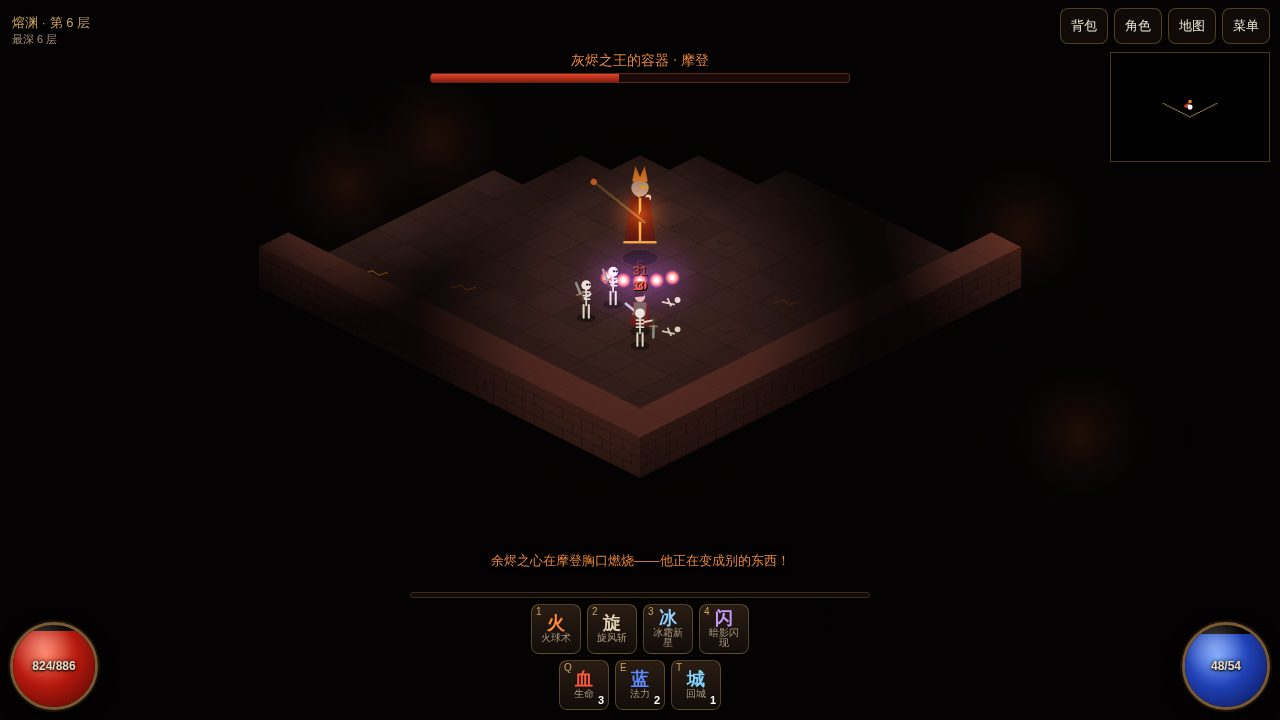
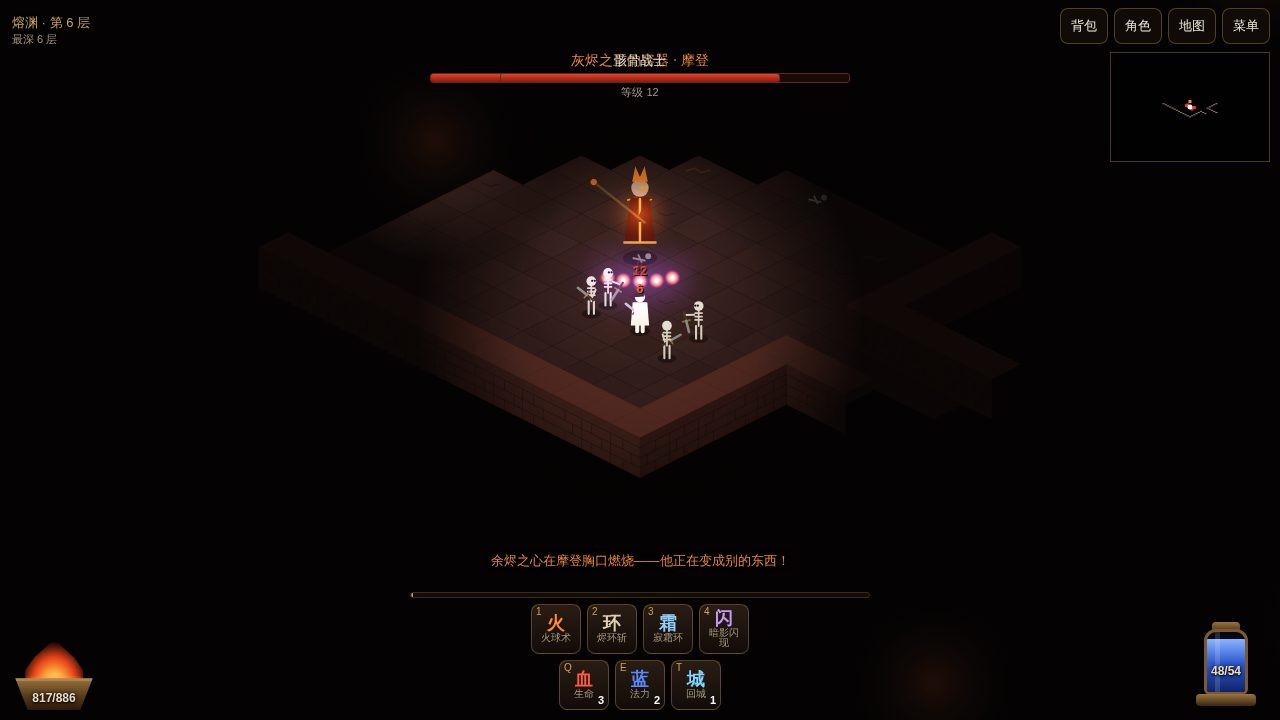
fix(emberfall): V0.1 去掉三处与暗黑系列过近的设计（莫格改监工造型、两个技能改名、红蓝球改火盆与油灯）
Claude-Session: https://claude.ai/code/session_01XabZgpsfqQTH4dmXweWHX2

diff --git a/games/emberfall/play/game.js b/games/emberfall/play/game.js
@@ -217,8 +217,8 @@ function poolFor(f) {
 }
 const SK = [
   { id: 'fireball', n: '火球术', k: '1', lvl: 1, mp: 5, cd: .4, g: '火', c: 'fire', d: '发射一枚火球，命中后爆炸，波及周围敌人。伤害受「魔力」和「法术伤害」加成。' },
-  { id: 'whirl', n: '旋风斩', k: '2', lvl: 3, mp: 9, cd: .8, g: '旋', c: 'whirl', d: '挥舞武器横扫周围所有敌人，造成 130% 武器伤害。' },
-  { id: 'nova', n: '冰霜新星', k: '3', lvl: 6, mp: 14, cd: 3, g: '冰', c: 'nova', d: '向四周释放寒冰，伤害并减速敌人 3 秒。' },
+  { id: 'whirl', n: '烬环斩', k: '2', lvl: 3, mp: 9, cd: .8, g: '环', c: 'whirl', d: '挥舞武器横扫周围所有敌人，造成 130% 武器伤害。' },
+  { id: 'nova', n: '寂霜环', k: '3', lvl: 6, mp: 14, cd: 3, g: '霜', c: 'nova', d: '向四周释放寒冰，伤害并减速敌人 3 秒。' },
   { id: 'blink', n: '暗影闪现', k: '4', lvl: 10, mp: 10, cd: 4, g: '闪', c: 'blink', d: '瞬间传送到目标位置（最远 7 格，需要视线）。' },
 ];
 
@@ -452,7 +452,7 @@ function genDungeon(f) {
       const bx = r.cx + .5, by = r.cy + .5;
       let bk = f === 3 ? 'mog' : f === 6 ? 'abbot' : pick(['mog', 'abbot']);
       const b = spawnMon(m, bk, bx, by, null);
-      if (f > 6) b.name = '深渊化身 · ' + (bk === 'mog' ? '屠戮者' : '焚誓者');
+      if (f > 6) b.name = '深渊化身 · ' + (bk === 'mog' ? '缚链者' : '焚誓者');
       const guard = bk === 'mog' ? 'zombie' : 'skel';
       for (let i = 0; i < 4; i++) { const s = spot(); if (s) spawnMon(m, f > 6 ? pick(pool) : guard, s.x, s.y, null); }
       m.props.push({ type: 'torch', x: r.x - .5, y: r.cy + .5, face: 'R', wall: true });
@@ -1013,7 +1013,7 @@ function bossDown(e) {
   const cx = r ? r.cx : Math.floor(e.x), cy = r ? r.cy : Math.floor(e.y);
   M.t[cy * M.w + cx] = T_DOWN; M.down = { x: cx + .5, y: cy + .5 };
   if (e.key === 'mog' && M.floor === 3) {
-    if (hero.q.q2 < 2) { hero.q.q2 = 2; log('你在莫格的屠宰间里找到了被锁住的托比——他还活着！托比逃回了镇上。', '#ffd24a'); }
+    if (hero.q.q2 < 2) { hero.q.q2 = 2; log('你在莫格背上的囚笼里找到了被锁住的托比——他还活着！托比逃回了镇上。', '#ffd24a'); }
   } else if (e.key === 'abbot' && M.floor === 6) {
     if (hero.q.q3 < 2) { hero.q.q3 = 2; setTimeout(epilogue, 1600); }
   } else log('深渊化身倒下了。更深处的裂隙打开了。', '#ffd24a');
@@ -1159,7 +1159,12 @@ function weaponShape(kind, len, col) {
   ctx.strokeStyle = '#4a3420'; ctx.lineWidth = 2.4 * Z; ctx.beginPath(); ctx.moveTo(0, 3 * Z); ctx.lineTo(0, -len * .35); ctx.stroke();
   if (kind === 'axe') { ctx.strokeStyle = '#5a3a20'; ctx.beginPath(); ctx.moveTo(0, -len * .35); ctx.lineTo(0, -len); ctx.stroke(); ctx.fillStyle = col || '#b8bcc4'; ctx.beginPath(); ctx.moveTo(0, -len * .95); ctx.quadraticCurveTo(9 * Z, -len * .85, 8 * Z, -len * .6); ctx.lineTo(0, -len * .7); ctx.fill(); return; }
   if (kind === 'mace') { ctx.strokeStyle = '#5a3a20'; ctx.beginPath(); ctx.moveTo(0, -len * .35); ctx.lineTo(0, -len * .85); ctx.stroke(); ctx.fillStyle = col || '#8a8f96'; ctx.beginPath(); ctx.arc(0, -len * .92, 4.2 * Z, 0, 6.3); ctx.fill(); return; }
-  if (kind === 'cleaver') { ctx.fillStyle = '#9aa0a8'; ctx.fillRect(-1 * Z, -len, 10 * Z, len * .65); ctx.fillStyle = '#6a1a10'; ctx.fillRect(4 * Z, -len * .5, 5 * Z, 4 * Z); return; }
+  if (kind === 'chain') { // 铁链连枷：一节节链环，末端一颗铁球
+    ctx.strokeStyle = '#8a8f96'; ctx.lineWidth = 1.4 * Z;
+    for (let i = 0; i < 6; i++) { ctx.beginPath(); ctx.ellipse(Math.sin(time * 4 + i) * i * .4 * Z, -len * (.18 + i * .12), 1.6 * Z, 2.6 * Z, 0, 0, 6.3); ctx.stroke(); }
+    ctx.fillStyle = '#5a5e64'; ctx.beginPath(); ctx.arc(Math.sin(time * 4 + 6) * 2.4 * Z, -len * .98, 4.4 * Z, 0, 6.3); ctx.fill();
+    ctx.strokeStyle = '#3a3e44'; ctx.lineWidth = 1.2 * Z; ctx.stroke(); return;
+  }
   // 剑类
   ctx.strokeStyle = '#8a6a3a'; ctx.lineWidth = 2 * Z; ctx.beginPath(); ctx.moveTo(-4 * Z, -len * .35); ctx.lineTo(4 * Z, -len * .35); ctx.stroke();
   ctx.strokeStyle = col || '#d8dce4'; ctx.lineWidth = (kind === 'gsword' ? 3.6 : kind === 'dagger' ? 2 : 2.8) * Z;
@@ -1197,22 +1202,31 @@ function drawMan(px, py, o) {
   };
   if (back) { drawWeaponArm(); }
   else drawShield();
+  // 背上的囚笼（莫格）：画在躯干后面
+  if (o.cage) {
+    ctx.fillStyle = W_('rgba(20,16,14,.85)'); ctx.fillRect(-11 * s, -50 * s, 22 * s, 24 * s);
+    ctx.strokeStyle = W_('#5a5048'); ctx.lineWidth = 1.8 * s; ctx.beginPath();
+    for (let i = 0; i <= 5; i++) { const x = -11 * s + i * 4.4 * s; ctx.moveTo(x, -50 * s); ctx.lineTo(x, -26 * s); }
+    ctx.moveTo(-12 * s, -50 * s); ctx.lineTo(12 * s, -50 * s); ctx.moveTo(-12 * s, -26 * s); ctx.lineTo(12 * s, -26 * s); ctx.stroke();
+  }
   // 躯干
   if (o.robe) {
     ctx.fillStyle = W_(o.body); ctx.beginPath(); ctx.moveTo(-6 * s + hy, -31 * s); ctx.lineTo(6 * s + hy, -31 * s); ctx.lineTo(10 * s, -1 * s); ctx.lineTo(-10 * s, -1 * s); ctx.closePath(); ctx.fill();
     if (o.trim) { ctx.strokeStyle = W_(o.trim); ctx.lineWidth = 1.6 * s; ctx.beginPath(); ctx.moveTo(-10 * s, -2 * s); ctx.lineTo(10 * s, -2 * s); ctx.moveTo(hy, -30 * s); ctx.lineTo(0, -2 * s); ctx.stroke(); }
   } else if (o.thin) {
     ctx.strokeStyle = W_(o.body); ctx.lineWidth = 2 * s; ctx.beginPath(); ctx.moveTo(hy, -32 * s); ctx.lineTo(0, -14 * s); for (let r = 0; r < 3; r++) { ctx.moveTo(-4 * s + hy, (-29 + r * 4) * s); ctx.lineTo(4 * s + hy, (-29 + r * 4) * s); } ctx.stroke();
-  } else if (o.fat) {
-    ctx.fillStyle = W_(o.body); ctx.beginPath(); ctx.ellipse(0, -20 * s, 12 * s, 13 * s, 0, 0, 6.3); ctx.fill();
-    ctx.fillStyle = W_(o.apron || '#5a4a3a'); ctx.fillRect(-8 * s, -22 * s, 16 * s, 16 * s);
-    ctx.fillStyle = 'rgba(120,10,5,.8)'; ctx.fillRect(-4 * s, -16 * s, 5 * s, 4 * s); ctx.fillRect(2 * s, -11 * s, 4 * s, 3 * s);
+  } else if (o.brute) {
+    // 宽肩的监工：倒梯形躯干、胸前斜缠铁链、铁项圈
+    ctx.fillStyle = W_(o.body); ctx.beginPath(); ctx.moveTo(-12 * s + hy, -33 * s); ctx.lineTo(12 * s + hy, -33 * s); ctx.lineTo(8 * s, -12 * s); ctx.lineTo(-8 * s, -12 * s); ctx.closePath(); ctx.fill();
+    ctx.strokeStyle = W_('#8a8f96'); ctx.lineWidth = 2.4 * s; ctx.setLineDash([2.2 * s, 1.4 * s]);
+    ctx.beginPath(); ctx.moveTo(-11 * s + hy, -32 * s); ctx.lineTo(8 * s, -14 * s); ctx.stroke(); ctx.setLineDash([]);
+    ctx.fillStyle = W_('#4a4e54'); ctx.fillRect(-5 * s + hy, -35 * s, 10 * s, 3 * s);
   } else {
     ctx.fillStyle = W_(o.body); ctx.beginPath(); ctx.moveTo(-7 * s + hy, -31 * s); ctx.lineTo(7 * s + hy, -31 * s); ctx.lineTo(6 * s, -13 * s); ctx.lineTo(-6 * s, -13 * s); ctx.closePath(); ctx.fill();
     if (o.belt) { ctx.fillStyle = W_(o.belt); ctx.fillRect(-6 * s, -16 * s, 12 * s, 2.4 * s); }
   }
   // 头
-  const hx = hy * 1.4, hyy = o.fat ? -36 * s : -37 * s;
+  const hx = hy * 1.4, hyy = o.brute ? -38 * s : -37 * s;
   ctx.fillStyle = W_(o.skin); ctx.beginPath(); ctx.arc(hx, hyy, (o.head || 5.6) * s, 0, 6.3); ctx.fill();
   if (o.skull && !back) { ctx.fillStyle = '#111'; ctx.beginPath(); ctx.arc(hx + 1 * s, hyy - .5 * s, 1.3 * s, 0, 6.3); ctx.arc(hx + 4 * s, hyy - .5 * s, 1.3 * s, 0, 6.3); ctx.fill(); }
   if (o.eyes && !back) { ctx.fillStyle = o.eyes; ctx.beginPath(); ctx.arc(hx + 1.5 * s, hyy - .5 * s, 1.1 * s, 0, 6.3); ctx.arc(hx + 4.2 * s, hyy - .5 * s, 1.1 * s, 0, 6.3); ctx.fill(); }
@@ -1253,7 +1267,7 @@ function lookOf(e) {
     case 'ghoul': return Object.assign(base, { body: '#8a8a7a', legs: '#4a4a3a', skin: '#a8a898', hunch: true, armsFwd: true, arm: '#a8a898', eyes: '#ff4020' });
     case 'cultist': return Object.assign(base, { robe: true, body: '#3a1e4e', trim: '#8a5ab8', skin: '#b89a8a', hood: '#2a1438', weapon: 'staff', wcol: '#c070ff', eyes: '#e090ff' });
     case 'knight': return Object.assign(base, { body: '#2c2c36', legs: '#1e1e26', skin: '#2c2c36', helm: '#3a3a46', eyes: '#ff3020', weapon: 'gsword', wcol: '#8a8a9a', wlen: 1.2, cape: '#5a0e0a', shield: '#2a2a33' });
-    case 'mog': return Object.assign(base, { fat: true, body: '#9a6a5a', legs: '#4a3028', skin: '#a87a6a', apron: '#6a5a48', weapon: 'cleaver', wlen: 1.2, head: 6.4, eyes: '#ff3010', aura: e.enraged ? 'rgba(255,40,20,.35)' : base.aura });
+    case 'mog': return Object.assign(base, { brute: true, cage: true, body: '#5a4638', legs: '#3a2a20', skin: '#8a6a5a', weapon: 'chain', wlen: 1.3, head: 5.4, eyes: '#ff3010', aura: e.enraged ? 'rgba(255,40,20,.35)' : base.aura });
     case 'abbot': return Object.assign(base, { robe: true, float: true, body: e.phase === 2 ? '#4a0e08' : '#6a1a14', trim: '#d8a040', skin: '#c8a08a', crown: e.phase === 2 ? '#ff8a2a' : '#d8a040', weapon: 'staff', wcol: '#ff7a2a', wlen: 1.3, eyes: e.phase === 2 ? '#ffb020' : null, aura: e.phase === 2 ? 'rgba(255,110,30,.45)' : 'rgba(255,120,40,.18)' });
   }
   return base;
@@ -1271,7 +1285,7 @@ function heroLook() {
 }
 function drawNpc(n) {
   const px = sx(n.x, n.y), py = sy(n.x, n.y);
-  const L = { priest: { robe: true, body: '#d8d0c0', trim: '#c9a35a', skin: '#d8b8a0', hood: '#e8e0d0', weapon: 'staff', wcol: '#ffe08a' }, smith: { body: '#5a3a24', legs: '#2a2018', skin: '#c89878', belt: '#1a120a', apron: '#3a2a1a', weapon: 'mace', hair: '#6a4a2a', s: 1.1 }, alch: { robe: true, body: '#2a4a3a', trim: '#8ad0a0', skin: '#e0b8a0', hair: '#8a2a1a' }, boy: { body: '#6a5a3a', legs: '#3a2a1a', skin: '#e0b898', hair: '#4a3020', s: .8 } }[n.look];
+  const L = { priest: { robe: true, body: '#d8d0c0', trim: '#c9a35a', skin: '#d8b8a0', hood: '#e8e0d0', weapon: 'staff', wcol: '#ffe08a' }, smith: { body: '#5a3a24', legs: '#2a2018', skin: '#c89878', belt: '#1a120a', weapon: 'mace', hair: '#6a4a2a', s: 1.1 }, alch: { robe: true, body: '#2a4a3a', trim: '#8ad0a0', skin: '#e0b8a0', hair: '#8a2a1a' }, boy: { body: '#6a5a3a', legs: '#3a2a1a', skin: '#e0b898', hair: '#4a3020', s: .8 } }[n.look];
   drawMan(px, py, Object.assign({ face: n.face, walk: 0, moving: false }, L));
   ctx.font = `bold ${Math.round(12 * Math.max(Z, .85))}px sans-serif`; ctx.textAlign = 'center';
   const ty = py - 52 * Z * (L.s || 1);
@@ -1736,18 +1750,18 @@ function talk(n) {
       [{ t: '我会阻止他。', main: true, fn: () => { q.q3 = 1; closePanel(); log('新任务：余烬之心——前往第 6 层封印大厅', '#ffd24a'); saveGame(); } }, bye]);
     if (q.q3 === 2) return dialog(n, ['你回来了……让我看看你。', '……孩子，你的眼睛里有火。', '灰烬之王没有死，他只是换了一个容器。封印大厅下面的裂隙还在呼唤他。去吧，在火焰吞没你之前，把深渊里的东西全部埋葬。这是修会最后的遗物，带上它。'],
       [{ t: '收下遗物', main: true, fn: () => { q.q3 = 3; hero.won = true; const it = genItem(Math.max(14, hero.lvl + 2), { rar: 3 }); hero.inv.length < 40 ? hero.inv.push(it) : dropItemAt(it, P.x, P.y); gainXp(1500); log(`获得传奇物品：${it.n}`, '#e8843a'); log('无尽深渊已开启：第 6 层之下还有更深的楼层', '#ffd24a'); Snd.play('legend'); closePanel(); saveGame(); } }]);
-    const lines = q.q3 === 1 ? '封印大厅在第 6 层。愿圣焰为你照亮道路。' : q.q2 === 1 ? '格伦的学徒还困在下面……莫格那头畜生，以前是修道院的屠夫。' : hero.won ? '深渊没有尽头，孩子。但每往下一层，你都让地面上的人多活一天。' : '伤口我已经为你治好了。小心脚下，孩子。';
+    const lines = q.q3 === 1 ? '封印大厅在第 6 层。愿圣焰为你照亮道路。' : q.q2 === 1 ? '格伦的学徒还困在下面……莫格那头畜生，以前是修道院地牢的狱卒。' : hero.won ? '深渊没有尽头，孩子。但每往下一层，你都让地面上的人多活一天。' : '伤口我已经为你治好了。小心脚下，孩子。';
     return dialog(n, [lines, '（伊莲为你恢复了全部生命与法力）'], [{ t: '关于烬原镇', fn: () => dialog(n, ['烬原镇建在三十年前那场大火的灰烬上，所以叫这个名字。镇上的人大多是守誓者的后代。', '北边的废墟就是圣焰修道院，地窖入口在废墟中间。镇中央的传送石能把你送到你到过的任何一层。'], [{ t: '返回', fn: () => talk(n) }]) }, bye]);
   }
   if (n.id === 'gren') {
-    if (q.q2 === 0 && q.q1 >= 1) return dialog(n, ['你要下地窖？……那帮我一个忙。', '我的学徒托比，那傻小子三天前偷了我的锤子，说要下去找他爹。有人在第 3 层听见了他的叫声——还有剁肉的声音。', '以前修道院有个屠夫叫莫格，现在他就在下面，自称「监工」。把托比带回来，我给你打一把最好的家伙。'],
+    if (q.q2 === 0 && q.q1 >= 1) return dialog(n, ['你要下地窖？……那帮我一个忙。', '我的学徒托比，那傻小子三天前偷了我的锤子，说要下去找他爹。有人在第 3 层听见了他的叫声——还有铁链在地上拖的声音。', '以前修道院地牢有个狱卒叫莫格，现在他就在下面，自称「监工」。把托比带回来，我给你打一把最好的家伙。'],
       [{ t: '我会把托比带回来。', main: true, fn: () => { q.q2 = 1; closePanel(); log('新任务：铁匠的学徒——击败第 3 层的莫格', '#ffd24a'); saveGame(); } }, { t: '先看看你的货', fn: () => openShop('smith') }, bye]);
     if (q.q2 === 2) return dialog(n, ['托比回来了！浑身是血，但活着……', '说话算话。这是我这辈子打过最好的一件，拿去吧。'],
       [{ t: '收下报酬', main: true, fn: () => { q.q2 = 3; const it = genItem(Math.max(8, hero.lvl + 2), { rar: 2, slot: 'weapon' }); hero.inv.length < 40 ? hero.inv.push(it) : dropItemAt(it, P.x, P.y); gainXp(400); log(`获得：${it.n}`, '#f3d34a'); spawnToby(); closePanel(); saveGame(); } }]);
     return dialog(n, ['要买兵器护甲，还是要卖点破烂？'], [{ t: '交易', main: true, fn: () => openShop('smith') }, bye]);
   }
-  if (n.id === 'mara') return dialog(n, ['药水、卷轴，要什么自己挑。别问配方。'], [{ t: '交易', main: true, fn: () => openShop('alch') }, { t: '关于地下的怪物', fn: () => dialog(n, ['骸骨弓手会躲在远处放箭，别站着不动；邪教术士会瞬移，逼近了打。', '名字发蓝光的是「精英」，更硬也更值钱。木桶里偶尔藏着小鬼，砸之前想清楚。', '要是被围住了，冰霜新星能让它们慢下来。'], [{ t: '返回', fn: () => talk(n) }]) }, bye]);
-  if (n.id === 'toby') return dialog(n, [pick(['谢谢你救了我！师父现在不骂我了……至少少骂了一点。', '我在下面看见院长了。他的胸口在发光，像一块烧红的炭。', '莫格的屠宰间里挂满了……我不想说了。'])], [bye]);
+  if (n.id === 'mara') return dialog(n, ['药水、卷轴，要什么自己挑。别问配方。'], [{ t: '交易', main: true, fn: () => openShop('alch') }, { t: '关于地下的怪物', fn: () => dialog(n, ['骸骨弓手会躲在远处放箭，别站着不动；邪教术士会瞬移，逼近了打。', '名字发蓝光的是「精英」，更硬也更值钱。木桶里偶尔藏着小鬼，砸之前想清楚。', '要是被围住了，寂霜环能让它们慢下来。'], [{ t: '返回', fn: () => talk(n) }]) }, bye]);
+  if (n.id === 'toby') return dialog(n, [pick(['谢谢你救了我！师父现在不骂我了……至少少骂了一点。', '我在下面看见院长了。他的胸口在发光，像一块烧红的炭。', '莫格背上那个笼子里关过好多人……我不想说了。'])], [bye]);
 }
 function spawnToby() { if (!town.npcs.some(n => n.id === 'toby')) town.npcs.push({ kind: 'npc', id: 'toby', n: '学徒 托比', g: '托', x: 12.4, y: 17.2, face: .5, walk: 0, r: .3, look: 'boy' }); }
 function epilogue() {
@@ -1837,8 +1851,8 @@ let hudCache = {};
 function setIf(key, val, fn) { if (hudCache[key] !== val) { hudCache[key] = val; fn(val); } }
 function updHud() {
   const hp = Math.max(0, Math.ceil(hero.hp)), mp = Math.floor(hero.mp);
-  setIf('hp', hp + '/' + S.maxHp, () => { $('orb-hp').querySelector('i').style.height = (hp / S.maxHp * 100) + '%'; $('orb-hp').querySelector('span').textContent = `${hp}/${S.maxHp}`; $('orb-hp').classList.toggle('low', hp < S.maxHp * .3); });
-  setIf('mp', mp + '/' + S.maxMp, () => { $('orb-mp').querySelector('i').style.height = (mp / S.maxMp * 100) + '%'; $('orb-mp').querySelector('span').textContent = `${mp}/${S.maxMp}`; });
+  setIf('hp', hp + '/' + S.maxHp, () => { $('g-hp').querySelector('.fill').style.height = (hp / S.maxHp * 100) + '%'; $('g-hp').querySelector('span').textContent = `${hp}/${S.maxHp}`; $('g-hp').classList.toggle('low', hp < S.maxHp * .3); });
+  setIf('mp', mp + '/' + S.maxMp, () => { $('g-mp').querySelector('.fill').style.height = (mp / S.maxMp * 100) + '%'; $('g-mp').querySelector('span').textContent = `${mp}/${S.maxMp}`; });
   setIf('xp', hero.xp + '/' + hero.lvl, () => { $('xp').querySelector('i').style.width = (hero.xp / xpNeed(hero.lvl) * 100) + '%'; $('xp').title = `经验 ${hero.xp} / ${xpNeed(hero.lvl)}（${hero.lvl} 级）`; });
   setIf('pots', `${hero.pots.hp},${hero.pots.mp},${hero.pots.tp}`, () => { $('p-hp').querySelector('.cnt').textContent = hero.pots.hp; $('p-mp').querySelector('.cnt').textContent = hero.pots.mp; $('p-tp').querySelector('.cnt').textContent = hero.pots.tp; });
   setIf('pts', hero.pts, v => { $('pts-badge').hidden = !v; $('pts-badge').textContent = v; });

diff --git a/games/emberfall/play/game.css b/games/emberfall/play/game.css
@@ -38,16 +38,32 @@ button:focus-visible, a:focus-visible { outline: 2px solid var(--gold); outline-
 
 #bottom { position: absolute; left: 0; right: 0; bottom: 0; display: flex; align-items: flex-end; justify-content: space-between; gap: 8px;
   padding: 0 max(10px, env(safe-area-inset-right)) max(10px, env(safe-area-inset-bottom)) max(10px, env(safe-area-inset-left)); }
-.orb { position: relative; width: 88px; height: 88px; border-radius: 50%; overflow: hidden; border: 3px solid var(--bronze);
-  background: #0b0606; box-shadow: 0 0 0 2px #1a110b, 0 6px 18px rgba(0, 0, 0, .7), inset 0 0 16px #000; pointer-events: auto; flex: none; }
-.orb i { position: absolute; left: 0; right: 0; bottom: 0; height: 100%; transition: height .15s; }
-.orb.hp i { background: radial-gradient(circle at 40% 30%, #ff6a4a, #b3180e 45%, #4a0503 100%); }
-.orb.mp i { background: radial-gradient(circle at 40% 30%, #6a9aff, #1f3fb3 45%, #070f4a 100%); }
-.orb::after { content: ""; position: absolute; inset: 0; border-radius: 50%; background: radial-gradient(circle at 35% 25%, rgba(255, 255, 255, .28), transparent 38%); }
-.orb span { position: absolute; inset: 0; display: flex; align-items: center; justify-content: center; font-size: 12px; font-weight: 700; z-index: 2;
+/* 生命「火盆」与法力「油灯」（ART.md 第五节：不用红蓝球）。内部尺寸都用百分比，改 .gauge 的宽高即可整体缩放。 */
+.gauge { position: relative; width: 88px; height: 88px; flex: none; pointer-events: auto; }
+.gauge span { position: absolute; left: 0; right: 0; bottom: 6%; text-align: center; font-size: 12px; font-weight: 700; z-index: 3;
   text-shadow: 0 1px 2px #000, 0 0 4px #000; }
-.orb.low { animation: pulse 1s infinite; }
-@keyframes pulse { 50% { box-shadow: 0 0 0 2px #1a110b, 0 0 22px rgba(255, 40, 20, .8), inset 0 0 16px #000; } }
+.brazier .fire { position: absolute; left: 18%; right: 18%; bottom: 30%; height: 64%; }
+.brazier .fire i { position: absolute; left: 0; right: 0; bottom: 0; height: 100%; transition: height .15s; transform-origin: 50% 100%;
+  background: radial-gradient(ellipse 60% 90% at 50% 100%, #fff3b0 0%, #ffb040 28%, #e8431a 62%, rgba(150, 20, 5, .0) 100%);
+  clip-path: polygon(50% 0, 64% 22%, 84% 44%, 100% 72%, 100% 100%, 0 100%, 0 72%, 16% 44%, 36% 22%);
+  animation: flicker 1.1s ease-in-out infinite alternate; }
+.brazier .bowl { position: absolute; left: 6%; right: 6%; bottom: 0; height: 36%; z-index: 2;
+  background: linear-gradient(#9a7440, #5a3c1e 55%, #2a1a0c); clip-path: polygon(0 0, 100% 0, 84% 100%, 16% 100%);
+  box-shadow: inset 0 3px 0 rgba(255, 210, 140, .25); }
+.brazier::before { content: ""; position: absolute; left: 10%; right: 10%; bottom: 30%; height: 10%; border-radius: 50%; z-index: 1;
+  background: radial-gradient(ellipse at 50% 40%, rgba(255, 150, 60, .55), transparent 70%); }
+.lamp .cap { position: absolute; left: 34%; right: 34%; top: 0; height: 9%; background: linear-gradient(#9a7440, #5a3c1e); border-radius: 4px 4px 0 0; }
+.lamp .glass { position: absolute; left: 25%; right: 25%; top: 8%; bottom: 17%; border: 3px solid var(--bronze); border-radius: 12px 12px 6px 6px;
+  background: #0a0c16; overflow: hidden; box-shadow: inset 0 0 10px #000; }
+.lamp .glass i { position: absolute; left: 0; right: 0; bottom: 0; height: 100%; transition: height .15s;
+  background: linear-gradient(#8ab4ff, #2f5bd0 45%, #0f236a); }
+.lamp .glass::after { content: ""; position: absolute; top: 0; bottom: 0; left: 22%; width: 12%; background: rgba(255, 255, 255, .14); }
+.lamp .base { position: absolute; left: 16%; right: 16%; bottom: 4%; height: 14%; background: linear-gradient(#9a7440, #3a2614); border-radius: 4px; }
+.lamp span { bottom: 36%; }
+.gauge.low .fire i { animation-duration: .35s; }
+.gauge.low { animation: lowpulse 1s infinite; }
+@keyframes lowpulse { 50% { filter: drop-shadow(0 0 10px rgba(255, 40, 20, .95)); } }
+@keyframes flicker { from { transform: scaleY(1) scaleX(1); } to { transform: scaleY(.9) scaleX(1.05); } }
 #center { flex: 1; max-width: 460px; display: flex; flex-direction: column; align-items: center; gap: 6px; pointer-events: auto; }
 #xp { width: 100%; height: 6px; background: #120c08; border: 1px solid #3b2b18; border-radius: 3px; overflow: hidden; }
 #xp i { display: block; height: 100%; width: 0; background: linear-gradient(90deg, #8a6a2a, #e8c56a); }
@@ -142,8 +158,8 @@ kbd { display: inline-block; min-width: 24px; padding: 1px 6px; border-radius: 5
 .dead-t { font-family: "Songti SC", "Noto Serif SC", serif; font-size: 56px; color: #c8321f; text-shadow: 0 0 30px rgba(200, 50, 30, .7); }
 
 @media (max-width: 640px) {
-  .orb { width: 66px; height: 66px; }
-  .orb span { font-size: 10px; }
+  .gauge { width: 66px; height: 66px; }
+  .gauge span { font-size: 10px; }
   .sk { width: 42px; height: 42px; }
   .sk b { font-size: 15px; }
   .sk small { display: none; }
@@ -157,13 +173,13 @@ kbd { display: inline-block; min-width: 24px; padding: 1px 6px; border-radius: 5
   #bossbar, #tgt { top: 88px; }
 }
 @media (max-width: 380px) {
-  .orb { width: 58px; height: 58px; }
+  .gauge { width: 58px; height: 58px; }
   .sk { width: 38px; height: 38px; }
 }
 @media (max-height: 460px) and (orientation: landscape) {
-  .orb { width: 62px; height: 62px; }
+  .gauge { width: 62px; height: 62px; }
   .sk { width: 40px; height: 40px; }
   .sk small { display: none; }
   #log { bottom: 110px; }
 }
-@media (prefers-reduced-motion: reduce) { .orb.low { animation: none; } * { transition: none !important; } }
+@media (prefers-reduced-motion: reduce) { .brazier .fire i { animation: none; } .gauge.low { animation: none; filter: drop-shadow(0 0 8px rgba(255, 40, 20, .9)); } * { transition: none !important; } }

diff --git a/games/emberfall/index.html b/games/emberfall/index.html
@@ -116,13 +116,13 @@
         <h1 class="serif">余烬陷落<span>EMBERFALL</span></h1>
         <p class="lead">修道院的钟在午夜自己响了。院长带着修士们走进地窖，再也没有出来；从那以后，死者开始行走。你是一个途经烬原镇的流浪者——举起火把，走下台阶，看看黑暗里到底藏着什么。</p>
         <div class="actions">
-          <a class="btn primary" href="play/?v=1">▶ 开始游戏</a>
+          <a class="btn primary" href="play/?v=f2dead74">▶ 开始游戏</a>
           <a class="btn secondary" href="#controls">操作说明</a>
         </div>
         <p class="small">免下载安装 · 电脑和手机浏览器都能玩 · 首次加载约 160 KB · 存档保存在你自己的浏览器里</p>
       </div>
       <figure class="shot">
-        <img src="img/dungeon.jpg" width="1280" height="720" alt="《余烬陷落》地窖第 2 层：火光照亮的石砌地牢里，玩家挥剑迎战一群腐尸，屏幕两侧是红色生命球与蓝色法力球">
+        <img src="img/dungeon.jpg" width="1280" height="720" alt="《余烬陷落》地窖第 2 层：火光照亮的石砌地牢里，玩家挥剑迎战一群腐尸，屏幕左下是代表生命的火盆、右下是代表法力的油灯">
         <figcaption>网页版实机截图 · 地窖第 2 层，腐尸群来袭</figcaption>
       </figure>
     </div>
@@ -140,7 +140,7 @@
       <div class="quote serif">「镇上能拿剑的人都已经下去过了，没有一个回来。」<small>—— 老祭司 伊莲</small></div>
       <div class="acts">
         <div class="act"><b>第 1–2 层 · 修道院地窖</b><p>腐尸、骸骨战士与火坑小鬼。查明地下发生了什么，回镇上告诉伊莲。</p></div>
-        <div class="act"><b>第 3–4 层 · 白骨墓穴</b><p>铁匠格伦的学徒托比被「腐肉监工」莫格抓走了。杀进屠宰间，把他救出来。</p></div>
+        <div class="act"><b>第 3–4 层 · 白骨墓穴</b><p>铁匠格伦的学徒托比被「腐肉监工」莫格锁进了背上的囚笼。打倒他，把托比救出来。</p></div>
         <div class="act"><b>第 5–6 层 · 熔渊</b><p>封印大厅里，堕落院长摩登胸口的余烬之心正在燃烧……之后，是没有尽头的深渊。</p></div>
       </div>
     </section>
@@ -149,7 +149,7 @@
       <h2>玩法</h2>
       <ol class="loop">
         <li><b>点击即战斗</b>点地面走路，点怪物挥剑，按住不放连续攻击</li>
-        <li><b>四个技能</b>火球术、旋风斩、冰霜新星、暗影闪现，随等级解锁</li>
+        <li><b>四个技能</b>火球术、烬环斩、寂霜环、暗影闪现，随等级解锁</li>
         <li><b>随机地牢</b>每层房间和走廊随机生成，火把、宝箱、木桶、神殿</li>
         <li><b>刷装备</b>普通 / <span class="r1">魔法</span> / <span class="r2">稀有</span> / <span class="r3">传奇</span>，16 种随机词缀</li>
         <li><b>精英怪</b>蓝名精英带「迅捷」「石肤」「嗜血」「焚烧」等特性</li>
@@ -219,7 +219,7 @@
     </section>
 
     <div class="cta-bottom">
-      <a class="btn primary" href="play/?v=1">▶ 开始游戏</a>
+      <a class="btn primary" href="play/?v=f2dead74">▶ 开始游戏</a>
     </div>
 
     <div class="notice">

diff --git a/games/emberfall/play/index.html b/games/emberfall/play/index.html
@@ -9,7 +9,7 @@
 <link rel="canonical" href="https://www.ooglex.com/games/emberfall/play/">
 <link rel="icon" type="image/svg+xml" href="/assets/favicon.svg">
 <link rel="apple-touch-icon" href="/assets/favicon.svg">
-<link rel="stylesheet" href="game.css?v=1">
+<link rel="stylesheet" href="game.css?v=ef3df6c7">
 </head>
 <body>
 <canvas id="game" aria-label="游戏画面：点击地面移动，点击敌人攻击"></canvas>
@@ -28,7 +28,7 @@
   <div id="tgt" hidden><div class="name"></div><div class="bar"><i></i></div><div class="sub"></div></div>
   <div id="log" aria-live="polite"></div>
   <div id="bottom">
-    <div class="orb hp" id="orb-hp" title="生命"><i></i><span></span></div>
+    <div class="gauge brazier" id="g-hp" title="生命"><div class="fire"><i class="fill"></i></div><div class="bowl"></div><span></span></div>
     <div id="center">
       <div id="xp" title="经验"><i></i></div>
       <div class="row" id="skills"></div>
@@ -38,7 +38,7 @@
         <button class="sk tpp" id="p-tp" type="button" title="回城卷轴（T）"><span class="key">T</span><b>城</b><small>回城</small><span class="cnt"></span></button>
       </div>
     </div>
-    <div class="orb mp" id="orb-mp" title="法力"><i></i><span></span></div>
+    <div class="gauge lamp" id="g-mp" title="法力"><div class="cap"></div><div class="glass"><i class="fill"></i></div><div class="base"></div><span></span></div>
   </div>
 </div>
 
@@ -75,6 +75,6 @@
 </div>
 
 <noscript><p style="position:fixed;inset:0;display:flex;align-items:center;justify-content:center;color:#e9dcc6">需要启用 JavaScript 才能游玩。</p></noscript>
-<script src="game.js?v=1"></script>
+<script src="game.js?v=f2dead74"></script>
 </body>
 </html>

diff --git a/docs/EMBERFALL_ROADMAP.md b/docs/EMBERFALL_ROADMAP.md
@@ -120,6 +120,8 @@
 
 ## V0.1 待办
 
-- 莫格的屠刀、围裙与开场台词偏向经典「屠夫」首领原型，建议改为拖铁链、背囚笼的监工造型并换台词（`STORY.md` 第六节）。小改动，单独一个步骤，改完经所有者同意再上线。
-- 技能名「旋风斩」「冰霜新星」与经典 ARPG 职业的招牌技能同名，建议改名（例如「烬环斩」「寂霜环」），可与莫格改造型合并为同一个步骤（`GDD.md` 第十四节）。
-- 红色生命球 + 蓝色法力球是经典暗黑系列最有辨识度的界面元素，建议 V0.1 也改为「火盆」生命显示与职业资源条（`ART.md` 第五节），可与上面两项合并为一个步骤。
+- **全部完成（2026-09-26，未部署，等所有者同意上线）**：
+  - 莫格改为背负囚笼、拖铁链连枷的监工造型，去掉屠刀与围裙；「屠夫 / 屠宰间 / 剁肉」等台词改为「狱卒 / 囚笼 / 铁链」；无尽深渊里的同类首领「屠戮者」改名「缚链者」。
+  - 技能改名：「旋风斩」→「烬环斩」、「冰霜新星」→「寂霜环」（技能效果不变）。
+  - 红色生命球 + 蓝色法力球改为左下「火盆」（火焰高度 = 生命，低血量时火焰变小并泛红光）与右下「油灯」（灯油高度 = 法力）。
+- 2026-09-26：所有者选择暂缓阶段 2.1（素材站被网络策略拦截，需要在云端环境设置里放行 polyhaven.com、dl.polyhaven.org、api.polyhaven.com、ambientcg.com、kenney.nl、quaternius.com、opengameart.org、kaylousberg.itch.io）。

diff --git a/CHANGELOG.md b/CHANGELOG.md
@@ -11,6 +11,15 @@
 
 ## [未发布]
 
+### 修改
+
+- 2026-09-26，**《余烬陷落》V0.1（已上线的 `/games/emberfall/`）去掉三处与《暗黑破坏神》系列过于接近的设计**。**未部署**，等所有者同意后上线。
+  - 首领「腐肉监工 莫格」：由拿屠刀、系围裙的「屠夫」形象改为背负囚笼、挥铁链连枷的监工；相关台词中的「屠夫 / 屠宰间 / 剁肉」改为「狱卒 / 囚笼 / 铁链」；无尽深渊的同类首领「屠戮者」改名「缚链者」。
+  - 技能改名：「旋风斩」→「烬环斩」、「冰霜新星」→「寂霜环」（效果不变，按键不变）。
+  - 界面：红色生命球与蓝色法力球改为左下「火盆」（火焰高度表示生命，低血量时火焰变小、泛红光脉动，尊重减少动态效果设置）与右下「油灯」（灯油高度表示法力）。
+  - 介绍页同步更新文案与三张实机截图；`game.css` / `game.js` 的版本号改为内容哈希（`scripts/validate_asset_versions.py` 通过）。存档格式不变，旧存档照常读取。
+  - 验证：V0.1 浏览器自动化测试 20 项全部通过（新游戏、战斗、第 3 层莫格与第 6 层摩登、结局、死亡复活、存读档、三种宽度无横向溢出）、控制台零报错；介绍页 360 / 768 / 1280 无横向溢出。
+
 ### 新增
 
 - 2026-09-26，**《余烬陷落》大作版步骤 1.5：灰盒大厅、3 种怪物 AI 与性能基准（阶段 1 技术原型完成）**。**未部署**。
